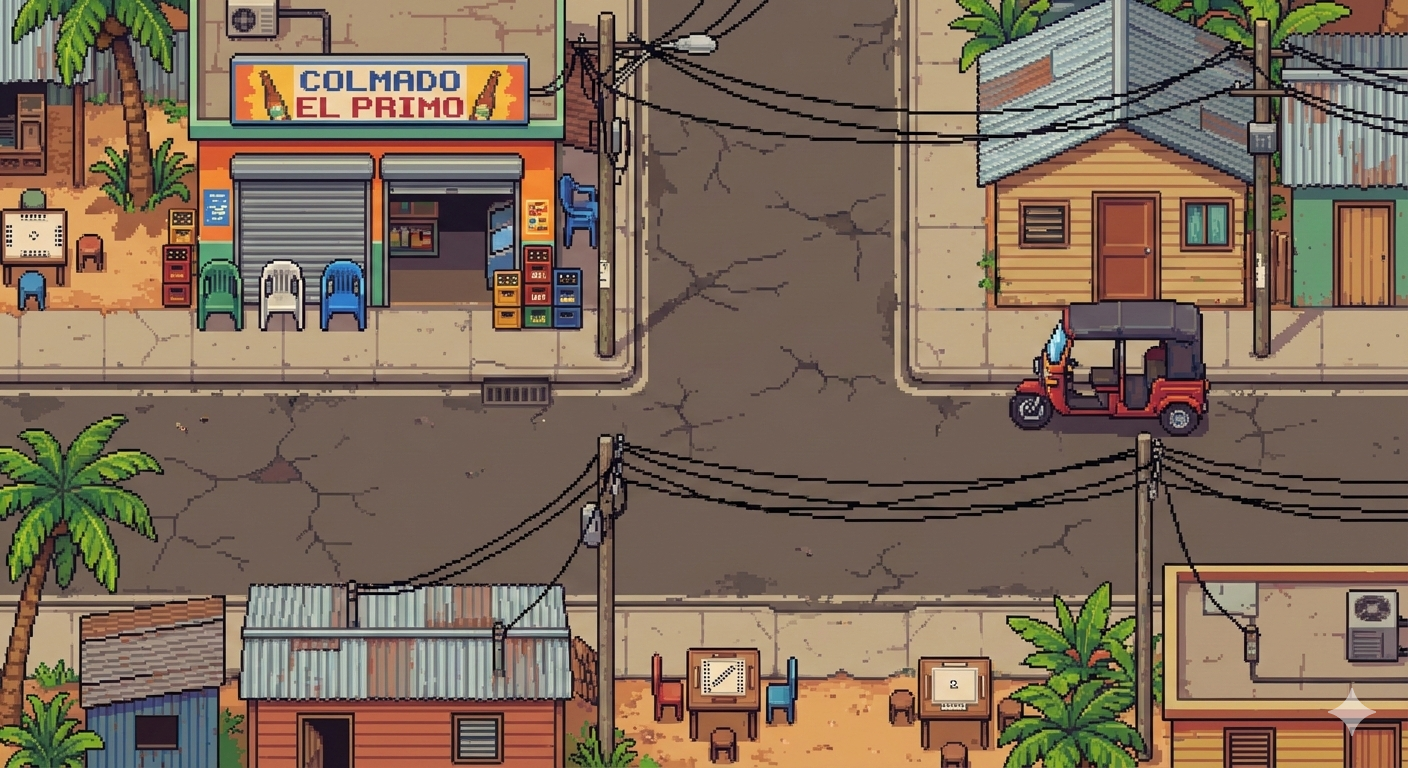
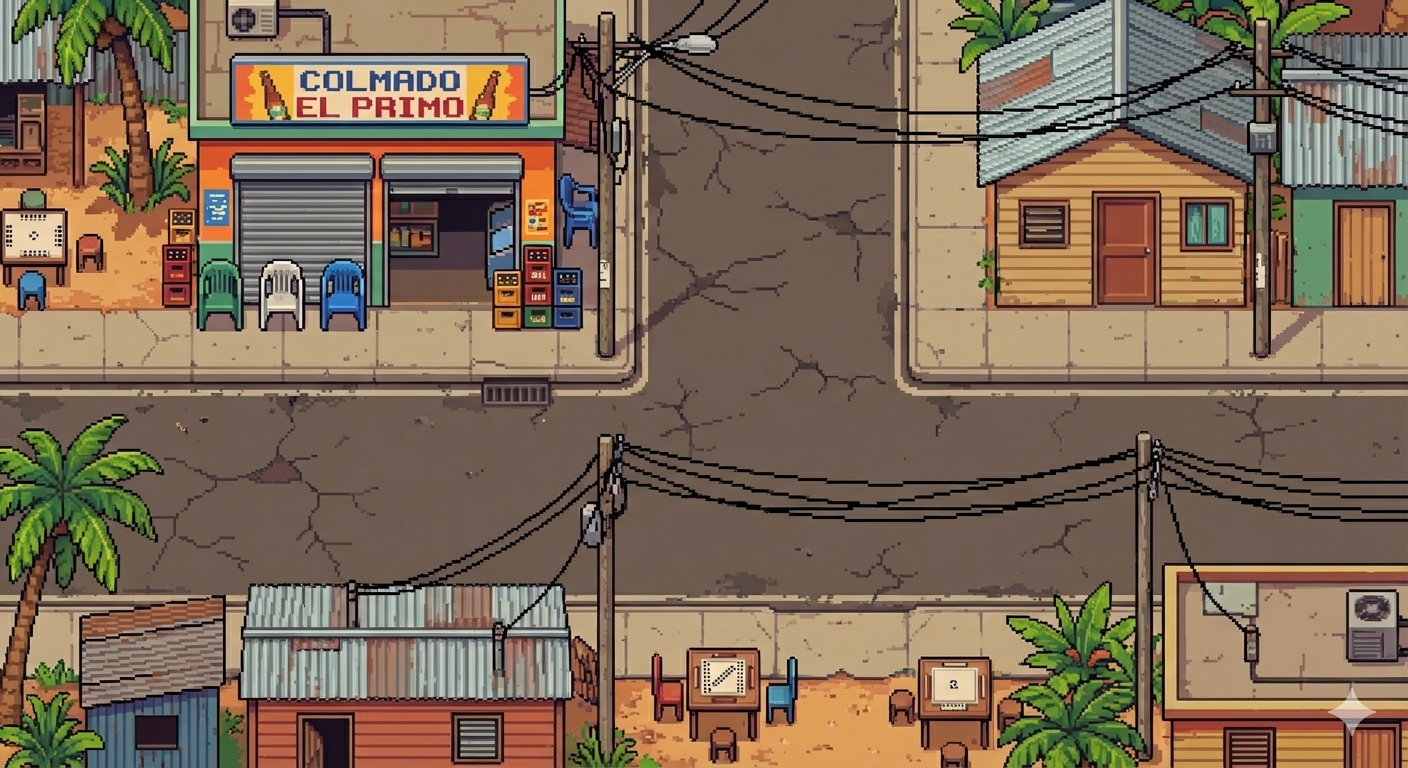
agregamos la opcion de correr pantalla completa

diff --git a/main.py b/main.py
@@ -12,7 +12,7 @@ from pathfinding import Grilla
 pygame.init() 
 
 ventana= pygame.display.set_mode((constantes.ANCHO_VENTANA, 
-                                  constantes.ALTO_VENTANA))
+                                  constantes.ALTO_VENTANA), pygame.SCALED | pygame.FULLSCREEN)
 
 
 pygame.display.set_caption("El Muchacho Dembow")
@@ -102,13 +102,13 @@ cerebro_ia = Grilla()
 
 #muro
 
-col_x = 8 * constantes.TILE_SIZE
-fila_y = 5 * constantes.TILE_SIZE
+col_x = 9 * constantes.TILE_SIZE
+fila_y = 7 * constantes.TILE_SIZE
 
 #5 de ancho 1 de alto
-muro1 = Pared(col_x, fila_y, 5 * constantes.TILE_SIZE, 1 * constantes.TILE_SIZE)
+muro1 = Pared(col_x, fila_y, 5 * constantes.TILE_SIZE, 1 * constantes.TILE_SIZE)  #este cruza de la calle al colmado
 #1 de ancho y 5 de alto
-muro2 = Pared(col_x, fila_y, 1 * constantes.TILE_SIZE, 5 * constantes.TILE_SIZE)
+muro2 = Pared(col_x, fila_y, 1 * constantes.TILE_SIZE, 5 * constantes.TILE_SIZE)  #del colmado baja
 grupo_paredes.add(muro1, muro2)
 
 
@@ -169,6 +169,7 @@ enemigos_por_oleada = 3
 
 img_fondo = pygame.image.load("assets/images/background/fondo.png").convert()
 fondo_redimensionado = pygame.transform.scale(img_fondo, (constantes.ANCHO_VENTANA, constantes.ALTO_VENTANA))
+
 
 run=True
 
@@ -304,10 +305,15 @@ while run == True:
             run=False  
         
         if event.type == pygame.KEYDOWN:
+            if event.key == pygame.K_ESCAPE:
+                run = False
+            if event.key == pygame.K_f:
+                pygame.display.toggle_fullscreen()    
             if event.key == pygame.K_a: mover_izquierda = True    
             if event.key == pygame.K_d: mover_derecha = True  
             if event.key == pygame.K_w: mover_arriba = True
             if event.key == pygame.K_s: mover_abajo = True    
+
                         
         if event.type == pygame.KEYUP: 
             if event.key == pygame.K_a: mover_izquierda = False  
